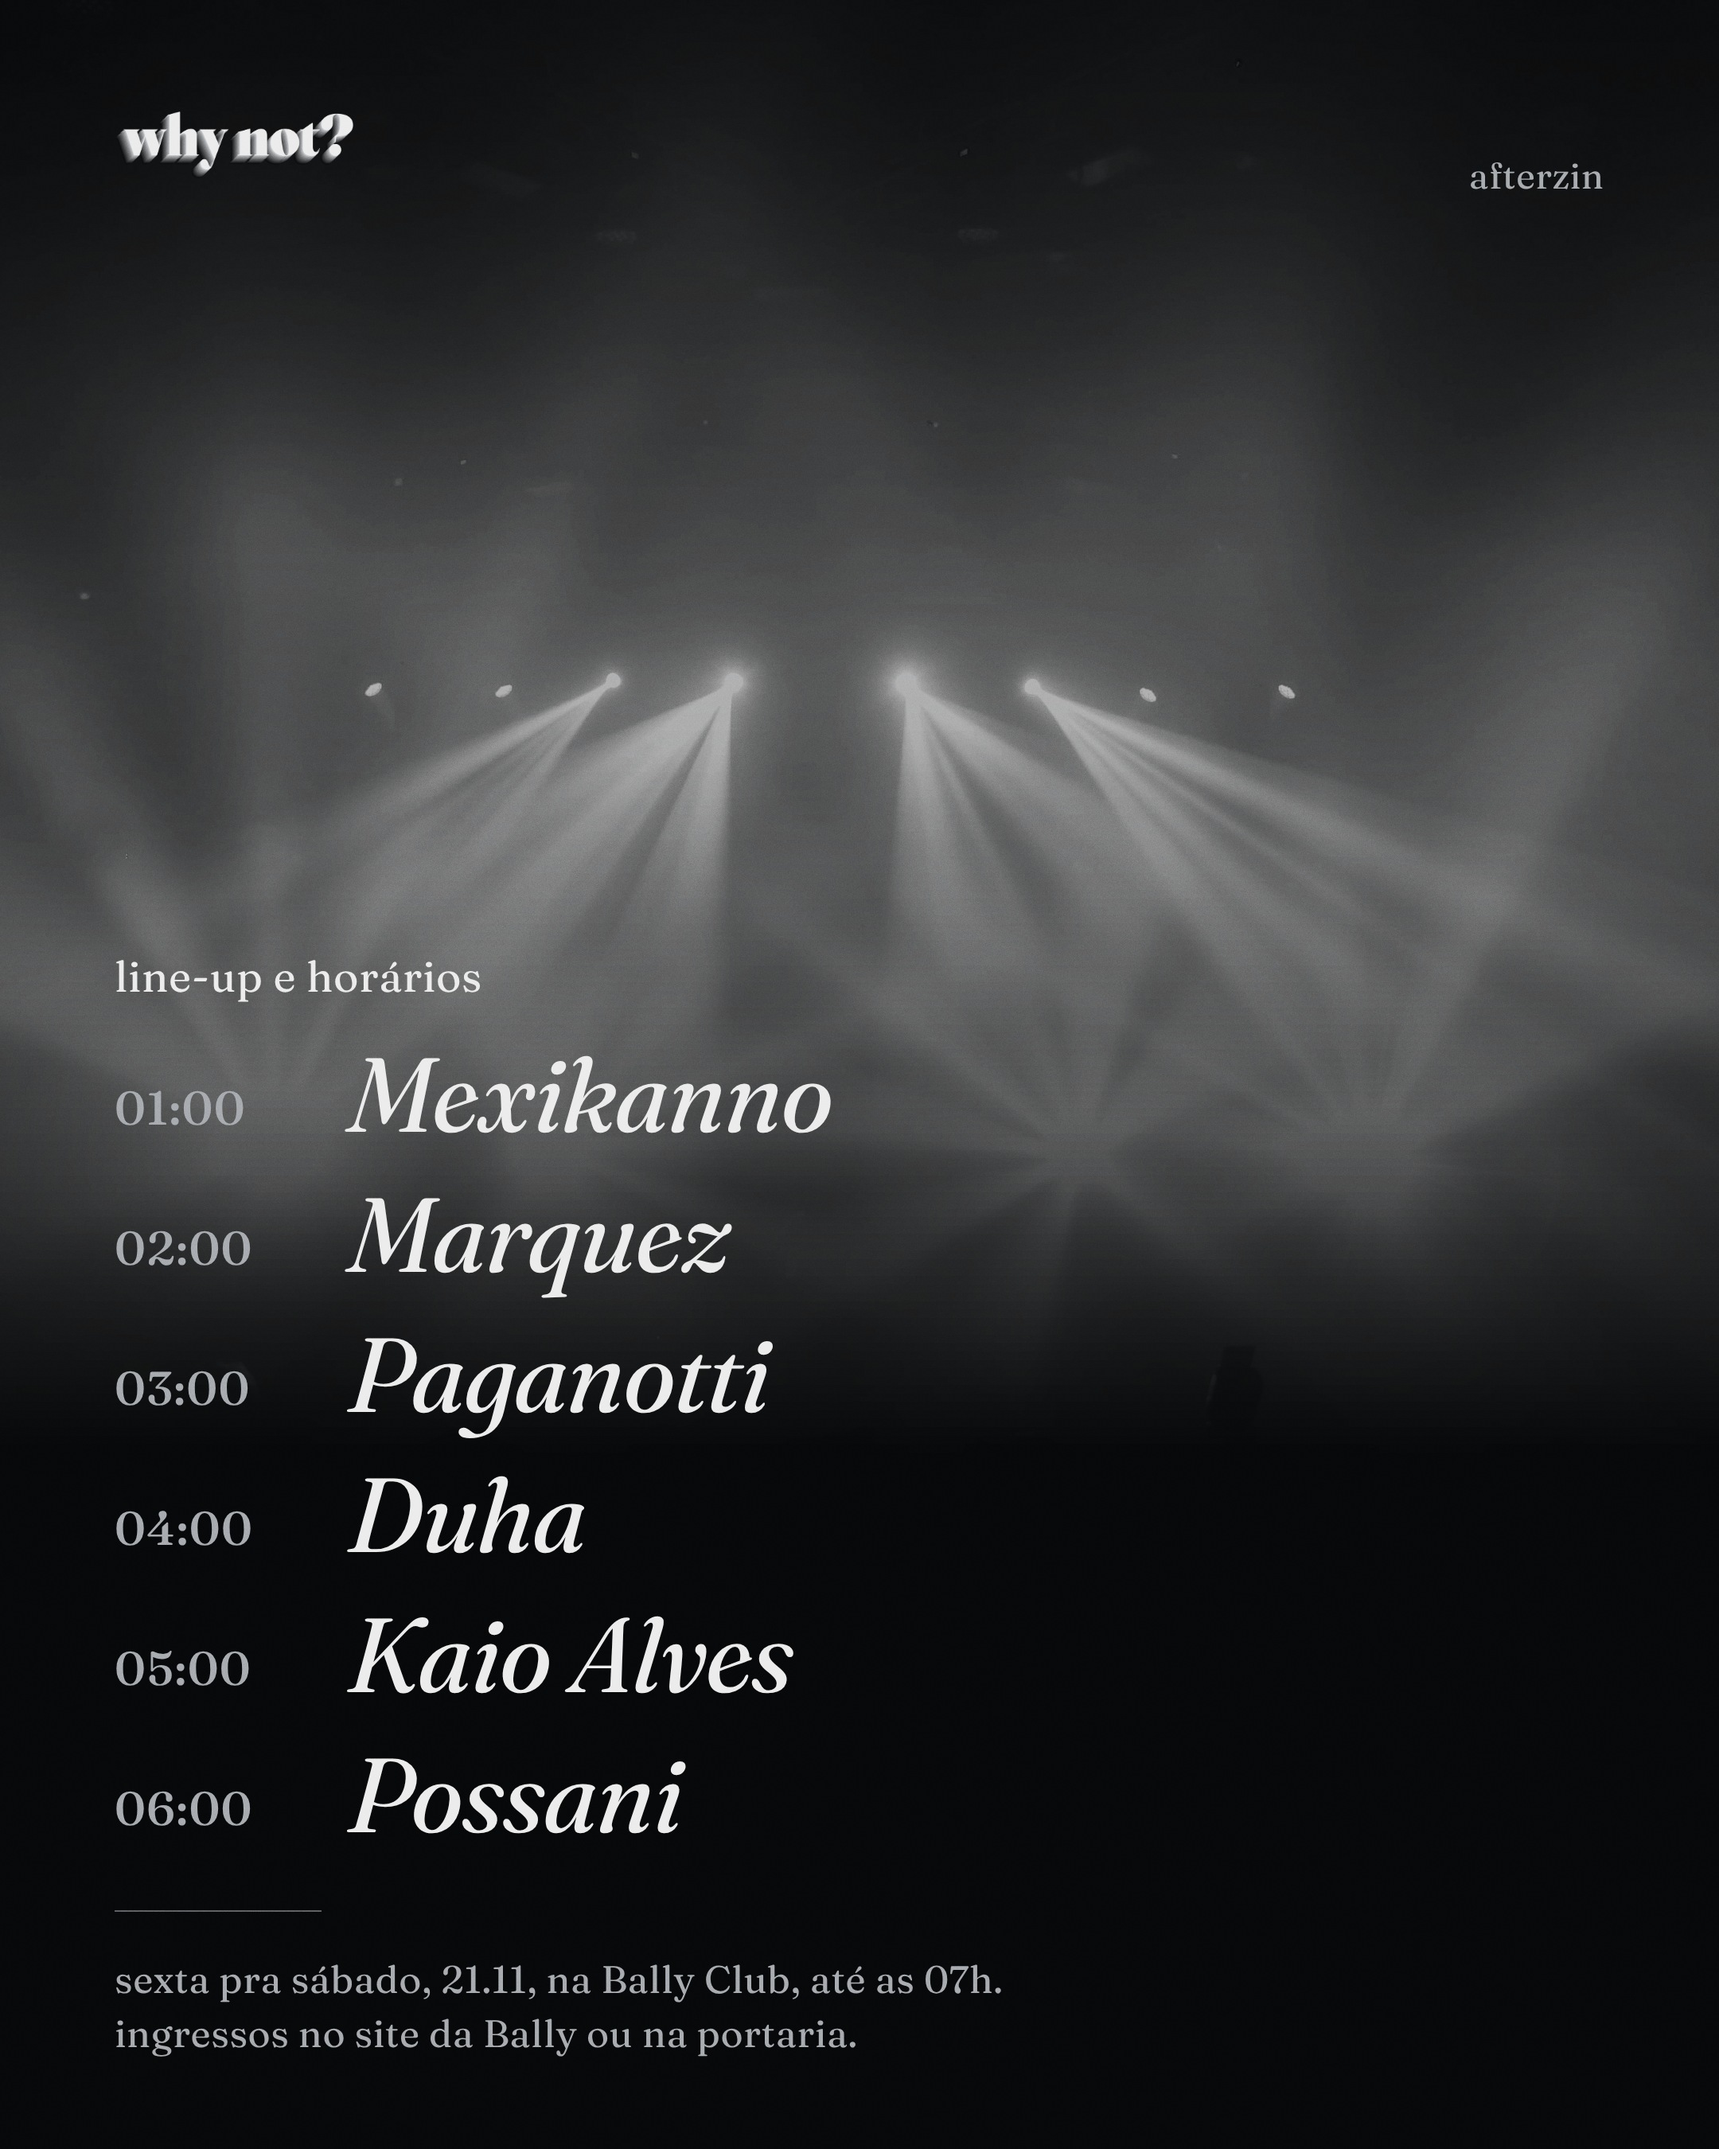
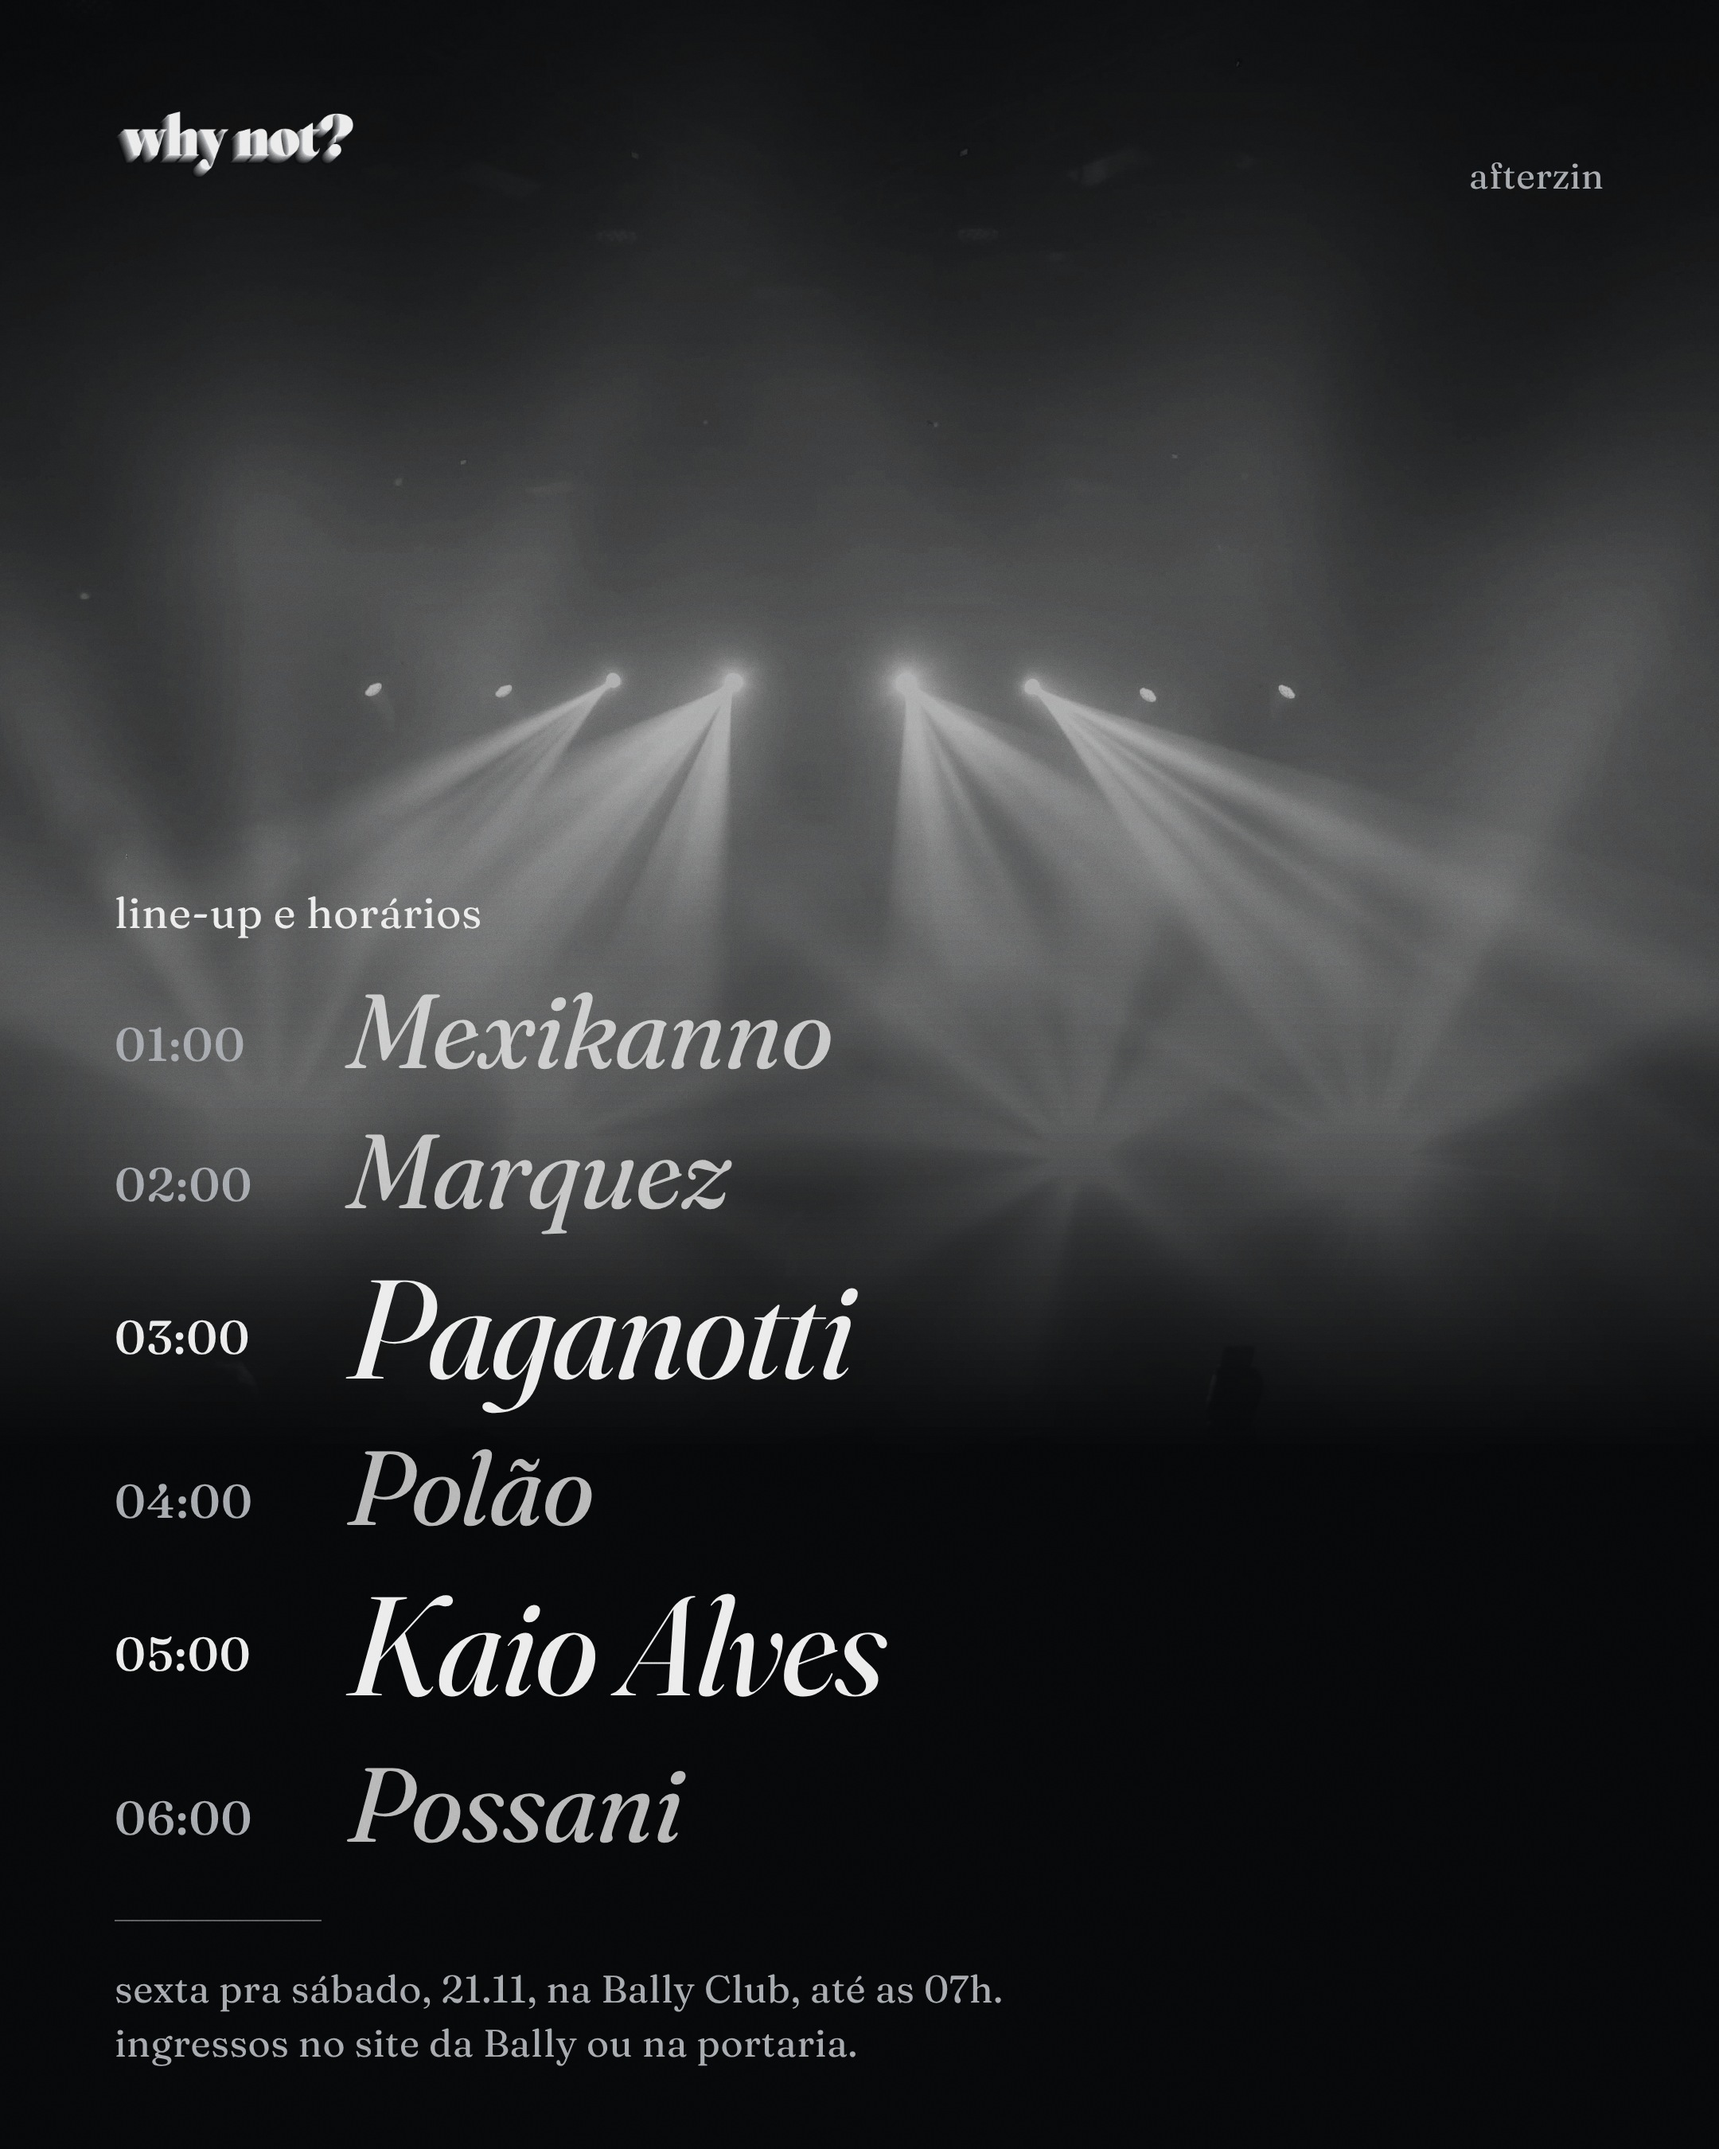
afterzin: line atualizado (Polão às 04h; Paganotti e Kaio Alves em destaque)
Claude-Session: https://claude.ai/code/session_01EB6L4Lkud6PcZEDw1BW6Na

diff --git a/identidade/ferramentas/minimal_afterzin.py b/identidade/ferramentas/minimal_afterzin.py
@@ -68,14 +68,17 @@ def bloco(base_y, fs, kicker, titulo, info, ks):
     return (f"<div class='m' style='top:{ty-46:.0f}px;font-size:{ks}px;color:{DEST}'>{kicker}</div><div class='t' style='top:{ty:.0f}px;font-size:{fs}px'>{titulo}</div>"
             f"<div class='r' style='top:{base_y+34}px'></div>" + ''.join(f"<div class='m' style='top:{base_y+62+i*34}px;font-size:{ks-2}px'>{l}</div>" for i, l in enumerate(info)))
 
-LINE = [('01:00', 'Mexikanno'), ('02:00', 'Marquez'), ('03:00', 'Paganotti'), ('04:00', 'Duha'), ('05:00', 'Kaio Alves'), ('06:00', 'Possani')]
+LINE = [('01:00', 'Mexikanno'), ('02:00', 'Marquez'), ('03:00', 'Paganotti'), ('04:00', 'Polão'), ('05:00', 'Kaio Alves'), ('06:00', 'Possani')]
+DESTAQUE = {'Paganotti', 'Kaio Alves'}     # atrações principais: nome maior e mais claro
 def grade(y, fs, hs, passo, info, kicker='line-up e horários'):
-    """grade de horários: hora (mono) + nome (itálico), no mesmo relógio da campanha"""
-    h = f"<div class='m' style='top:{y}px;font-size:{round(hs*.72)}px;color:{DEST}'>{kicker}</div>"; y0 = y + 58
-    for i, (hora, nome) in enumerate(LINE):
-        h += (f"<div class='h' style='top:{y0+i*passo+round(fs*.36)}px;font-size:{hs}px;color:{MED}'>{hora}</div>"
-              f"<div class='t' style='left:{72+round(hs*5.6)}px;top:{y0+i*passo}px;font-size:{fs}px;font-variation-settings:\"WONK\" 0'>{nome}</div>")
-    e = y0 + len(LINE) * passo + 18
+    """grade de horários: hora + nome (itálico), no mesmo relógio da campanha; destaques em corpo maior"""
+    h = f"<div class='m' style='top:{y}px;font-size:{round(hs*.72)}px;color:{DEST}'>{kicker}</div>"; yy = y + 58
+    for hora, nome in LINE:
+        d = nome in DESTAQUE; f = round(fs * (1.34 if d else 1)); p_ = round(passo * (1.26 if d else 1))
+        h += (f"<div class='h' style='top:{yy+round(f*.36)}px;font-size:{hs}px;color:{DEST if d else MED}'>{hora}</div>"
+              f"<div class='t' style='left:{72+round(hs*5.6)}px;top:{yy}px;font-size:{f}px;font-variation-settings:\"WONK\" 0;{'' if d else 'opacity:.78'}'>{nome}</div>")
+        yy += p_
+    e = yy + 18
     return h + f"<div class='r' style='top:{e}px'></div>" + ''.join(f"<div class='m' style='top:{e+28+i*34}px;font-size:{round(hs*.66)}px'>{l}</div>" for i, l in enumerate(info))
 
 PECAS = [  # nome, W, H, foto, foco, zoom, brilho, base_em, html
@@ -88,9 +91,9 @@ PECAS = [  # nome, W, H, foto, foco, zoom, brilho, base_em, html
  ('s2_story_info', 1080, 1920, '317621805', (.2, .5), 1.0, 1.1, .40,
   topo(1920) + relogio(1118, 100, 30, 34, ['afterzin why not?, sexta pra sábado, 21.11, na Bally Club.', 'ingressos no site da Bally ou na portaria.'])),
  ('3_feed_line', 1080, 1350, '175742652', (.5, .5), 1.0, 1.05, .26,
-  topo(1350) + grade(596, 66, 26, 88, ['sexta pra sábado, 21.11, na Bally Club, até as 07h.', 'ingressos no site da Bally ou na portaria.'])),
+  topo(1350) + grade(556, 66, 26, 88, ['sexta pra sábado, 21.11, na Bally Club, até as 07h.', 'ingressos no site da Bally ou na portaria.'])),
  ('s4_story_line', 1080, 1920, '175742652', (.5, .5), 1.0, 1.05, .30,
-  topo(1920) + grade(866, 74, 29, 98, ['sexta pra sábado, 21.11, na Bally Club, até as 07h.', 'ingressos no site da Bally ou na portaria.'])),
+  topo(1920) + grade(800, 74, 29, 98, ['sexta pra sábado, 21.11, na Bally Club, até as 07h.', 'ingressos no site da Bally ou na portaria.'])),
  ('s3_story_e-hoje', 1080, 1920, '587737046', (.72, .5), 1.0, 1.0, .40,
   topo(1920, 'é hoje') + bloco(1490, 108, 'afterzin why not?, hoje', 'saiu do show,<br>cola na bally.', ['a partir da 01h. ingressos na portaria.'], 21)),
 ]
